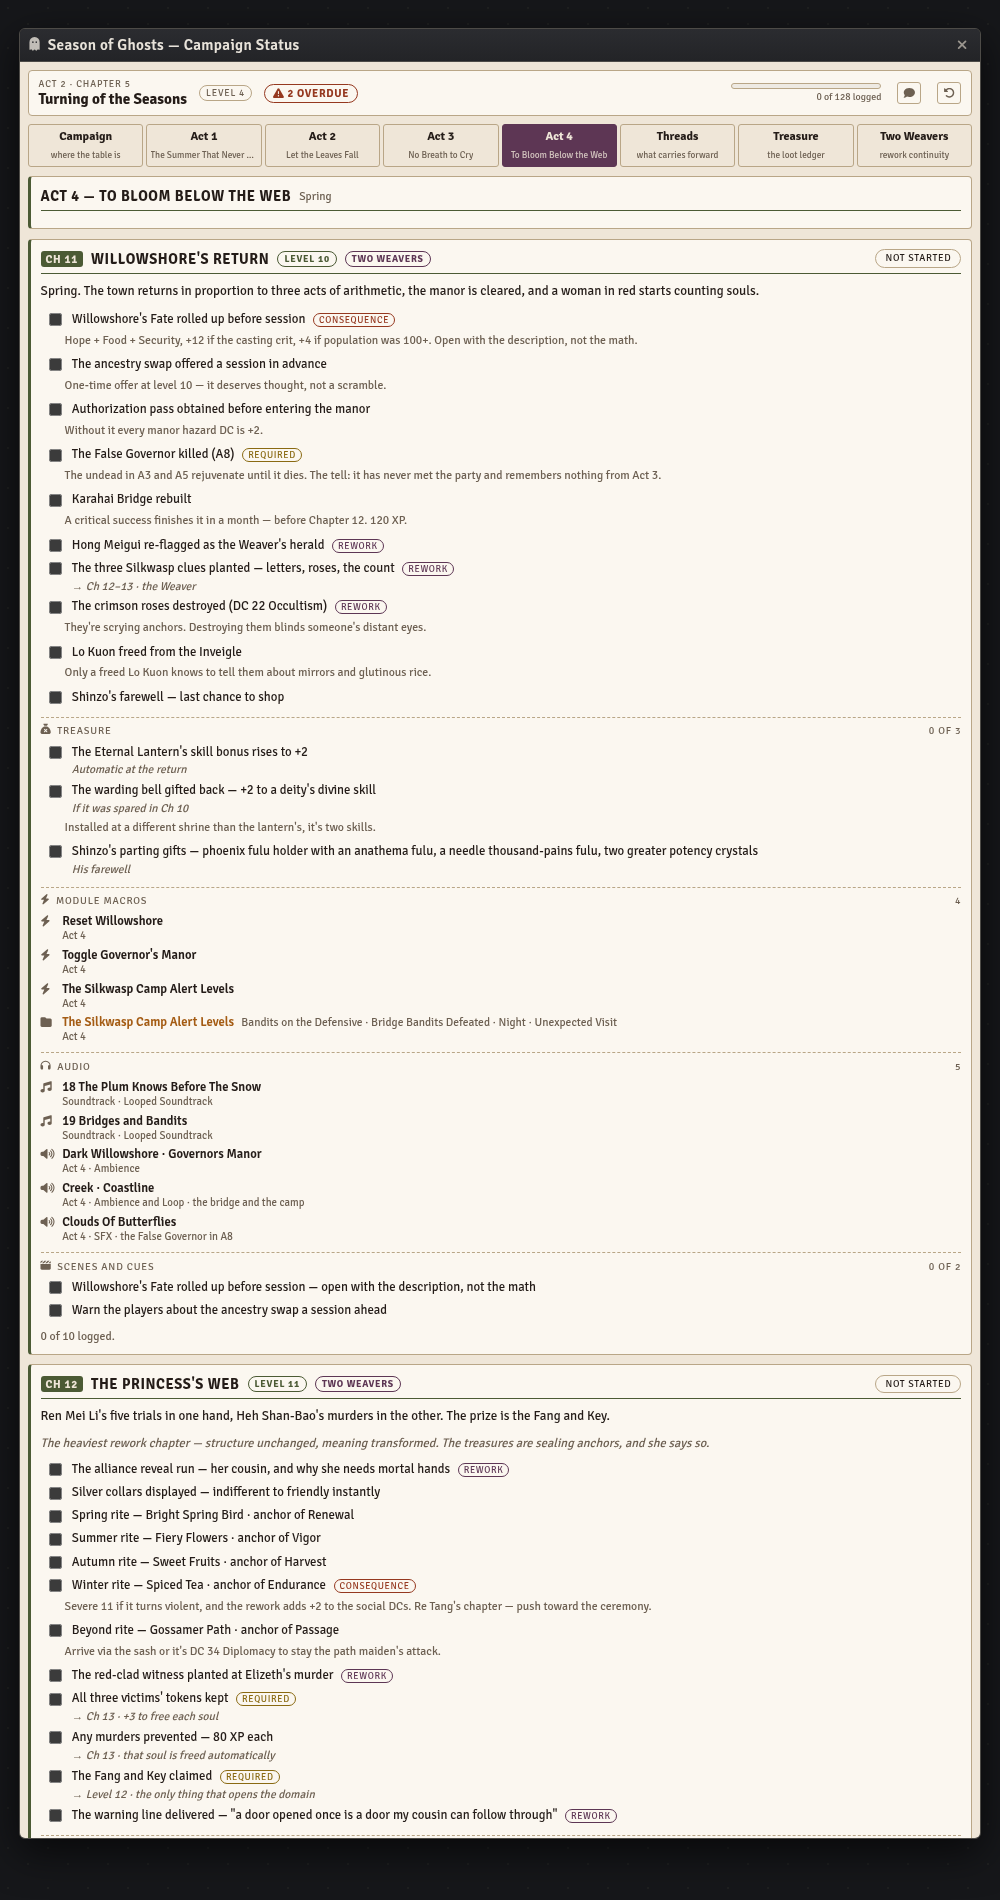
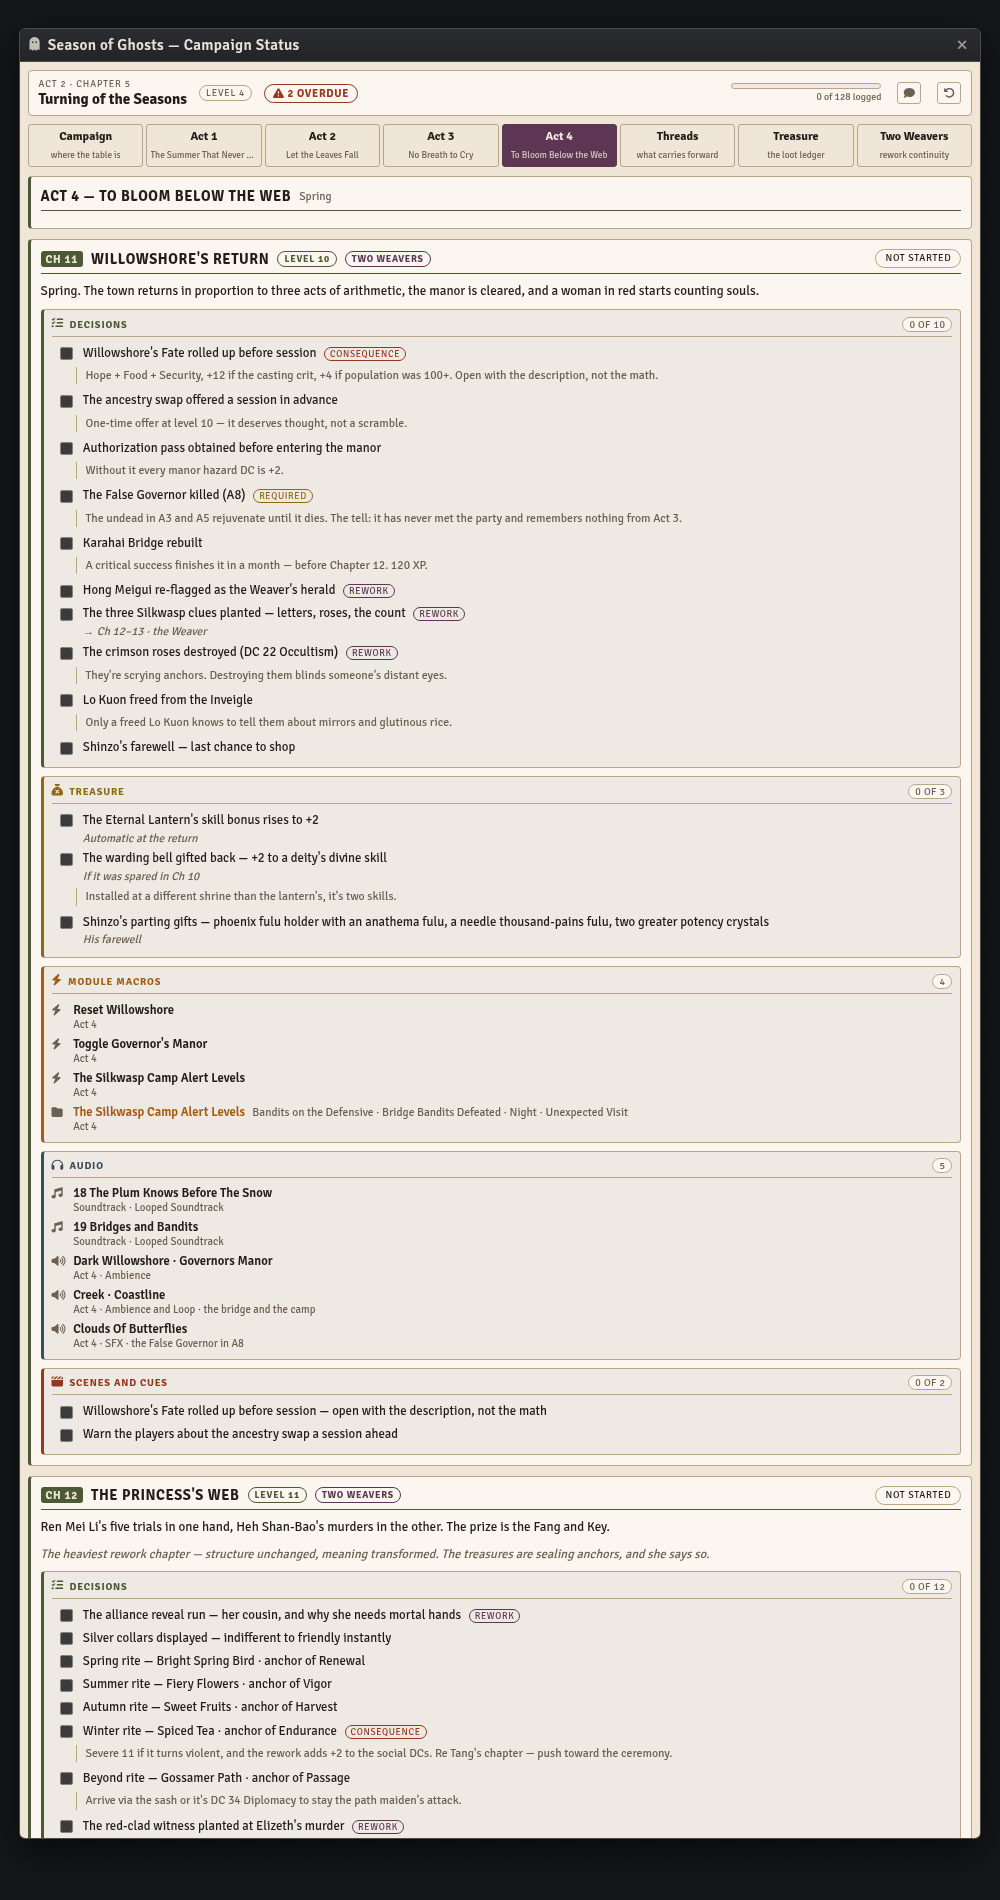
Campaign tracker: give every block inside a card a shape
A chapter card was a checklist followed by five unlabelled lists, each
separated only by a dashed rule and a small grey caption. At a glance
there was nothing to tell treasure from audio from cues.

Every block is now the same object — a tinted well with a coloured spine,
a labelled head, and its own count as a pill. The accent identifies the
block: gold for treasure, moss for a running procedure, plum for this
collection's consoles, ember for module macros, slate for audio, rust for
scenes and cues, and the act's own tone for the chapter's decisions.

The decisions list gained a head of its own, which is where its "n of m
logged" count moved to from the loose line under the card. Item notes hang
off a hairline so they read as belonging to the item above them. On the
campaign tab the same blocks sit in a grid and size to their contents
rather than stretching to match a taller neighbour, and the treasure list
there gained the journal links the other treasure lists already had.

diff --git a/macros/season-of-ghosts/campaign-status-tracker.js b/macros/season-of-ghosts/campaign-status-tracker.js
@@ -1450,29 +1450,32 @@ class CSApp extends BaseApp {
         <section class="panel" style="--tone:var(--ember)">
           <h3>Before this session <small>Chapter ${c.n}</small></h3>
           <div class="cols">
-            ${cues.length ? `<div>
-              <div class="subhead"><i class="fa-solid fa-clapperboard"></i> Scenes and cues</div>
+            ${cues.length ? `<div class="sub cues">
+              <div class="subhead"><i class="fa-solid fa-clapperboard"></i> Scenes and cues <span>${t.cuesFor(c.n).filter(q => t.cued(c.n, q.key)).length} of ${cues.length}</span></div>
               ${cues.map(q => `<label class="check ${t.cued(c.n, q.key) ? "on" : ""}">
                   <input type="checkbox" data-act="cue" data-n="${c.n}" data-k="${q.key}" ${t.cued(c.n, q.key) ? "checked" : ""} ${ro ? "disabled" : ""}>
                   <span class="lbl">${q.label}</span></label>`).join("")}
             </div>` : ""}
-            ${ours.length ? `<div>
-              <div class="subhead"><i class="fa-solid fa-ghost"></i> Consoles for this chapter</div>
+            ${ours.length ? `<div class="sub ours">
+              <div class="subhead"><i class="fa-solid fa-ghost"></i> Consoles for this chapter <span>${ours.length}</span></div>
               ${this.ourList(ours)}
             </div>` : ""}
-            ${macros.length ? `<div>
-              <div class="subhead"><i class="fa-solid fa-bolt"></i> Module macros for this chapter</div>
+            ${macros.length ? `<div class="sub macros">
+              <div class="subhead"><i class="fa-solid fa-bolt"></i> Module macros <span>${macros.length}</span></div>
               ${this.macroList(macros)}
             </div>` : ""}
-            ${(audio.length || tracks.length) ? `<div>
-              <div class="subhead"><i class="fa-solid fa-headphones"></i> Audio to have queued</div>
+            ${(audio.length || tracks.length) ? `<div class="sub audio">
+              <div class="subhead"><i class="fa-solid fa-headphones"></i> Audio to have queued <span>${audio.length + tracks.length}</span></div>
               ${this.audioList(audio, tracks)}
             </div>` : ""}
-            ${loot.length ? `<div>
-              <div class="subhead"><i class="fa-solid fa-sack-xmark"></i> Treasure still on the table</div>
-              ${loot.map(it => `<label class="check">
-                  <input type="checkbox" data-act="loot" data-n="${c.n}" data-k="${it.key}" ${ro ? "disabled" : ""}>
-                  <span class="lbl">${it.label}${it.where ? `<em class="pays">${it.where}</em>` : ""}</span></label>`).join("")}
+            ${loot.length ? `<div class="sub loot">
+              <div class="subhead"><i class="fa-solid fa-sack-xmark"></i> Treasure still on the table <span>${loot.length}</span></div>
+              ${loot.map(it => `<div class="itemrow">
+                  <label class="check">
+                    <input type="checkbox" data-act="loot" data-n="${c.n}" data-k="${it.key}" ${ro ? "disabled" : ""}>
+                    <span class="lbl">${it.label}${it.where ? `<em class="pays">${it.where}</em>` : ""}</span></label>
+                  ${this.journalBtn(targetFor(c.n, it, { loot: true }), "Open")}
+                </div>`).join("")}
             </div>` : ""}
           </div>
         </section>`;
@@ -1587,7 +1590,10 @@ class CSApp extends BaseApp {
         </h3>
         <p class="text">${c.spine}</p>
         ${c.note ? `<p class="note">${c.note}</p>` : ""}
-        <div class="items">
+
+        <div class="sub decisions">
+          <div class="subhead"><i class="fa-solid fa-list-check"></i> Decisions <span>${p.done} of ${p.total}</span></div>
+          <div class="items">
           ${c.items.map(i => {
             const st = t.itemState(c.n, i);
             const on = st === "ok";
@@ -1610,6 +1616,7 @@ class CSApp extends BaseApp {
               </div>
               ${i.note ? `<p class="itemnote">${i.note}</p>` : ""}`;
           }).join("")}
+          </div>
         </div>
 
         ${p.lootTotal ? `
@@ -1629,24 +1636,24 @@ class CSApp extends BaseApp {
         </div>` : ""}
 
         ${t.procsFor(c.n).length ? `
-        <div class="sub">
+        <div class="sub proc">
           ${t.procsFor(c.n).map(p => this.procBlock(p)).join("")}
         </div>` : ""}
 
         ${t.oursFor(c.n).length ? `
-        <div class="sub">
+        <div class="sub ours">
           <div class="subhead"><i class="fa-solid fa-ghost"></i> Consoles in this collection <span>${t.oursFor(c.n).length}</span></div>
           ${this.ourList(t.oursFor(c.n))}
         </div>` : ""}
 
         ${t.macrosFor(c.n).length ? `
-        <div class="sub">
+        <div class="sub macros">
           <div class="subhead"><i class="fa-solid fa-bolt"></i> Module macros <span>${t.macrosFor(c.n).length}</span></div>
           ${this.macroList(t.macrosFor(c.n))}
         </div>` : ""}
 
         ${(t.audioFor(c.n).length || t.trackFor(c.n).length) ? `
-        <div class="sub">
+        <div class="sub audio">
           <div class="subhead"><i class="fa-solid fa-headphones"></i> Audio <span>${t.audioFor(c.n).length + t.trackFor(c.n).length}</span></div>
           ${this.audioList(t.audioFor(c.n), t.trackFor(c.n))}
         </div>` : ""}
@@ -1664,7 +1671,6 @@ class CSApp extends BaseApp {
           }).join("")}
         </div>` : ""}
 
-        <p class="hint">${p.done} of ${p.total} logged.</p>
       </section>`;
   }
 
@@ -1951,12 +1957,35 @@ class CSApp extends BaseApp {
       .cst .lbl { flex:1; }
       .cst .pays { color:var(--muted); font-size:.72rem; display:block; }
 
-      .cst .sub { border-top:1px dashed var(--line); margin-top:.45rem; padding-top:.4rem; }
-      .cst .subhead { font-size:.64rem; text-transform:uppercase; letter-spacing:.08em; color:var(--muted);
-                      display:flex; align-items:center; gap:.35rem; margin-bottom:.25rem; }
-      .cst .subhead span { margin-left:auto; }
+      /* Every block inside a card is the same shape — a tinted well with a
+         coloured spine and a labelled head — so the eye can sort decisions
+         from treasure from audio without reading any of it. Each block sets
+         its own accent in --sub, which the head and spine both read. */
+      .cst .sub { --sub:var(--line); background:var(--stripe); border:1px solid var(--line);
+                  border-left:3px solid var(--sub); border-radius:4px;
+                  padding:.4rem .5rem .45rem; margin-top:.5rem; }
+      .cst .sub.decisions { --sub:var(--tone, var(--ember)); }
+      .cst .sub.loot   { --sub:var(--gold); }
+      .cst .sub.proc   { --sub:var(--moss); }
+      .cst .sub.ours   { --sub:var(--plum); }
+      .cst .sub.macros { --sub:var(--ember); }
+      .cst .sub.audio  { --sub:var(--slate); }
+      .cst .sub.cues   { --sub:var(--rust); }
+
+      .cst .subhead { font-size:.64rem; text-transform:uppercase; letter-spacing:.08em; color:var(--sub, var(--muted));
+                      font-weight:700; display:flex; align-items:center; gap:.35rem;
+                      margin:0 0 .35rem; padding-bottom:.25rem; border-bottom:1px solid var(--line); }
+      .cst .subhead i { color:var(--sub, var(--muted)); font-size:.72rem; }
+      .cst .subhead span { margin-left:auto; font-weight:400; color:var(--muted); letter-spacing:.04em;
+                           border:1px solid var(--line); border-radius:8px; padding:0 6px; background:var(--card); }
       .cst .sub.loot .check.on .lbl { text-decoration:line-through; text-decoration-color:var(--line); }
-      .cst .itemnote { font-size:.74rem; line-height:1.45; color:var(--muted); margin:0 0 .3rem 1.5rem; }
+      .cst .itemnote { font-size:.74rem; line-height:1.45; color:var(--muted); margin:.1rem 0 .35rem 1.55rem;
+                       padding-left:.5rem; border-left:1px solid var(--line); }
+
+      /* On the campaign tab the blocks sit in a grid rather than stacked. They
+         start level with each other and size to their contents, rather than
+         stretching a short block to match a tall neighbour. */
+      .cst .cols > .sub { margin-top:0; align-self:start; }
 
       .cst .macros { display:flex; flex-direction:column; gap:1px; }
       .cst .mrow { display:flex; gap:.45rem; align-items:baseline; font-size:.79rem; padding:.12rem 0; }
@@ -1968,9 +1997,12 @@ class CSApp extends BaseApp {
       .cst .mrow.ours i { color:var(--plum); }
       .cst .mrow.ours .mname { color:var(--plum); }
 
-      .cst .proc { border-top:1px dashed var(--line); margin-top:.45rem; padding-top:.4rem; }
-      .cst .proc:first-child { border-top:0; margin-top:0; padding-top:0; }
-      .cst .proc .subhead span { margin-left:.35rem; text-transform:none; letter-spacing:0; font-style:italic; }
+      /* A procedure is the same block, whether it's nested in a chapter card
+         or standing alone in a panel on the campaign tab. */
+      .cst .proc { --sub:var(--moss); }
+      .cst .proc + .proc { border-top:1px dashed var(--line); margin-top:.5rem; padding-top:.45rem; }
+      .cst .proc .subhead span { margin-left:.35rem; text-transform:none; letter-spacing:0; font-style:italic;
+                                 border:0; padding:0; background:none; }
       .cst .bullets { margin:.2rem 0 .4rem; padding-left:1.1rem; font-size:.79rem; line-height:1.5; }
       .cst .bullets li { margin-bottom:.15rem; }
 

diff --git a/CHANGELOG.md b/CHANGELOG.md
@@ -47,6 +47,10 @@
   scenes they repaint, instead of naming a playlist that doesn't exist under that name
 - Campaign tracker: seven module macros and one audio cue moved off `placed by guess` and
   `act only` onto the chapters the adventure's scene-notes blocks actually link them from
+- Campaign tracker: each block inside a chapter card — decisions, treasure, procedures,
+  consoles, module macros, audio, cues — is now a tinted well with its own accent colour and
+  a labelled head, rather than a dashed rule and a small grey caption. The chapter's own
+  checklist gained a head too, which is where its count moved to
 
 ### Fixed
 - Scoped all CSS under root classes; unscoped selectors were bleeding into PF2e sheets

diff --git a/macros/season-of-ghosts/README.md b/macros/season-of-ghosts/README.md
@@ -154,6 +154,10 @@ produced them.
 - The Two Weavers continuity checklist, the milestone-level table, and per-PC arcs
 - A spoiler-free chat recap: act, chapter, level, and the chapters behind them
 
+Everything inside a chapter card is the same shape — a tinted well with a coloured spine and
+a labelled head carrying its own count — so decisions, treasure, consoles, module macros,
+audio, and cues can be told apart without reading any of them.
+
 Generic beds that appear in every act — Indoors, Woods, Willowshore, the Mist and Fog set, the
 River loop — sit on the campaign tab under **Always to hand** rather than repeating against all
 thirteen chapters, alongside the Submacros folder and the campaign theme.
